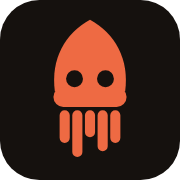
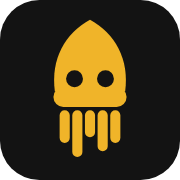
Сайт: графитовая палитра с жёлтым акцентом, исправлена вёрстка пронумерованных шагов
- Шаги в инструкциях (OBS, Windows, Spotify) разъезжались из-за grid на li с вложенными элементами
- Палитра вынесена в переменные, цвета шахматки и фокуса считаются от них
- Иконка перекрашена под новый акцент

Claude-Session: https://claude.ai/code/session_01X1xHWfWwsAvGZxverzrcNH

Changed region(s): [[0.2778, 0.1111, 0.7222, 0.8889]]

diff --git a/web/src/styles.css b/web/src/styles.css
@@ -1,16 +1,18 @@
 :root {
-  /* Палитра выведена из одного тёплого «чернильного» оттенка: серые не нейтральные, а в тон ему. */
-  --bg: #15110e;
-  --bg-2: #1b1612;
-  --panel: #211b16;
-  --panel-2: #2b241d;
-  --line: #3a3128;
-  --text: #efe7da;
-  --muted: #a89d8d;
-  --faint: #7a7064;
-  --accent: #ee6a43;
-  --accent-2: #ff8a66;
-  --accent-ink: #1d0b04;
+  /* Нейтральный графит и один тёплый акцент. Для смены палитры достаточно поменять эти переменные. */
+  --bg: #131313;
+  --bg-2: #181818;
+  --panel: #1e1e1e;
+  --panel-2: #272727;
+  --line: #343434;
+  --text: #ececec;
+  --muted: #a3a3a3;
+  --faint: #757575;
+  --accent: #f0b429;
+  --accent-2: #ffc94d;
+  --accent-ink: #1a1400;
+  --checker-a: #101010;
+  --checker-b: #181818;
   --ok: #8fc18a;
   --danger: #ff6b6b;
   --warn: #e9b44c;
@@ -211,7 +213,7 @@ kbd {
 }
 
 .btn:hover {
-  background: #342b22;
+  background: color-mix(in srgb, var(--panel-2) 80%, #fff);
   text-decoration: none;
 }
 
@@ -412,7 +414,7 @@ textarea.input {
 }
 
 .input:focus {
-  outline: 2px solid rgba(238, 106, 67, 0.5);
+  outline: 2px solid color-mix(in srgb, var(--accent) 55%, transparent);
   outline-offset: 1px;
   border-color: var(--accent);
 }
@@ -488,12 +490,12 @@ textarea.input {
   place-items: center;
   min-height: 250px;
   padding: 24px;
-  background-color: #100d0a;
+  background-color: var(--checker-a);
   background-image:
-    linear-gradient(45deg, #17120e 25%, transparent 25%),
-    linear-gradient(-45deg, #17120e 25%, transparent 25%),
-    linear-gradient(45deg, transparent 75%, #17120e 75%),
-    linear-gradient(-45deg, transparent 75%, #17120e 75%);
+    linear-gradient(45deg, var(--checker-b) 25%, transparent 25%),
+    linear-gradient(-45deg, var(--checker-b) 25%, transparent 25%),
+    linear-gradient(45deg, transparent 75%, var(--checker-b) 75%),
+    linear-gradient(-45deg, transparent 75%, var(--checker-b) 75%);
   background-size: 20px 20px;
   background-position: 0 0, 0 10px, 10px -10px, -10px 0;
 }
@@ -601,18 +603,19 @@ textarea.input {
 
 .steps > li {
   counter-increment: step;
-  display: grid;
-  grid-template-columns: 2.4em 1fr;
-  padding: 11px 0;
+  position: relative;
+  padding: 11px 0 11px 2.6em;
   border-top: 1px solid var(--line);
 }
 
 .steps > li::before {
   content: counter(step, decimal-leading-zero);
+  position: absolute;
+  left: 0;
+  top: 13px;
   font-family: var(--mono);
   font-size: 13px;
   color: var(--faint);
-  padding-top: 2px;
 }
 
 @media (max-width: 860px) {
@@ -643,12 +646,12 @@ textarea.input {
 }
 
 .checker {
-  background-color: #100d0a;
+  background-color: var(--checker-a);
   background-image:
-    linear-gradient(45deg, #17120e 25%, transparent 25%),
-    linear-gradient(-45deg, #17120e 25%, transparent 25%),
-    linear-gradient(45deg, transparent 75%, #17120e 75%),
-    linear-gradient(-45deg, transparent 75%, #17120e 75%);
+    linear-gradient(45deg, var(--checker-b) 25%, transparent 25%),
+    linear-gradient(-45deg, var(--checker-b) 25%, transparent 25%),
+    linear-gradient(45deg, transparent 75%, var(--checker-b) 75%),
+    linear-gradient(-45deg, transparent 75%, var(--checker-b) 75%);
   background-size: 20px 20px;
   background-position: 0 0, 0 10px, 10px -10px, -10px 0;
 }
@@ -856,7 +859,7 @@ textarea.input {
 }
 
 .preview-stage.bg-dark {
-  background: #0a0806;
+  background: #080808;
 }
 
 .preview-stage.bg-light {

diff --git a/web/index.html b/web/index.html
@@ -10,7 +10,7 @@
     <link rel="icon" type="image/png" sizes="32x32" href="%BASE_URL%favicon-32.png" />
     <link rel="icon" sizes="any" href="%BASE_URL%favicon.ico" />
     <link rel="apple-touch-icon" href="%BASE_URL%apple-touch-icon.png" />
-    <meta name="theme-color" content="#15110e" />
+    <meta name="theme-color" content="#131313" />
     <script>
       // Страница виджета (…/w/) должна быть прозрачной с самого первого кадра.
       if (/\/w\/?$/.test(location.pathname)) document.documentElement.classList.add("widget-page");
@@ -24,7 +24,7 @@
     </script>
     <style>
       html.widget-page, html.widget-page body { background: transparent !important; margin: 0; }
-      html:not(.widget-page) body { background: #15110e; color: #efe7da; margin: 0; }
+      html:not(.widget-page) body { background: #131313; color: #ececec; margin: 0; }
     </style>
     <title>Squidify — виджет Spotify для OBS</title>
   </head>
